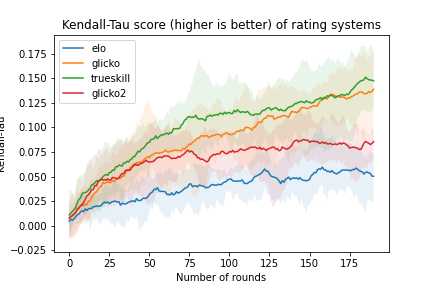
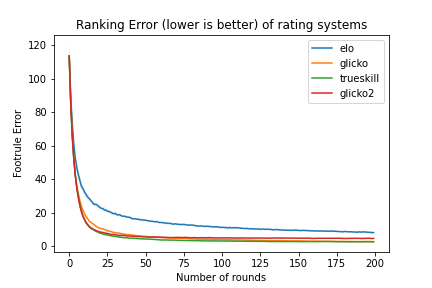
Changed kendall-tau to footrule

diff --git a/rate_rating_systems.py b/rate_rating_systems.py
@@ -20,6 +20,14 @@ def moving_average(a, n=3):
     return ret[n - 1:] / n
 
 
+def footrule(a,b):
+    a = np.array(a)
+    b = np.array(b)
+    error = 0
+    for idx, i in enumerate(a):
+        error += np.abs(idx - np.where(b==i)[0][0])
+    return error/len(a)
+
 ratingevaluationdataset = pd.read_csv(r"dataset\ChessRatings2\primary_training_part1_processed.csv")
 
 """
@@ -241,6 +249,7 @@ class ConvergenceEvaluation:
         self.loglosses = []
         self.kendalltaus = []
         self.correlations = []
+        self.footrules = []
 
         # create pool of players
         if not player_count % 2 == 0:
@@ -370,6 +379,7 @@ class ConvergenceEvaluation:
         self.loglosses.append(np.mean(round_loglosses))
         sorted_order_after = sorted(self.eval_player_pool, key=lambda x: self.eval_player_pool[x].rating)
         self.kendalltaus.append(kendalltau(self.kendalltaus_order, sorted_order_after))
+        self.footrules.append(footrule(self.kendalltaus_order, sorted_order_after))
 
         # correlation measure turns out to be very similar as using kendalltau alone
         self.correlations.append(np.corrcoef(self.kendalltaus_order, sorted_order_after)[0, 1])
@@ -427,7 +437,7 @@ def compare_results_convergence(list_of_obj, moving_window=100, legend=None, tit
         plt.legend(legend)
 
 
-def compare_results_convergence_multi(list_of_obj, moving_window=100, legend=None, title_details=''):
+def compare_results_convergence_multi(list_of_obj, legend=None, title_details=''):
     """
     Compare results from multiple runs each of multiple rating systems.
 
@@ -435,10 +445,9 @@ def compare_results_convergence_multi(list_of_obj, moving_window=100, legend=Non
     plt.figure()
     for obj in list_of_obj:
 
-        # calcluate the moving average for each of the cons
         res = []
         for run in obj:
-            res.append(np.round(moving_average(np.array([kt.correlation for kt in run.kendalltaus]), n=moving_window), decimals=7))
+            res.append(run.footrules)
 
         res = np.vstack(res)
         res_avg = np.mean(res, axis=0)
@@ -449,13 +458,37 @@ def compare_results_convergence_multi(list_of_obj, moving_window=100, legend=Non
         plt.fill_between(range(len(res_avg)), res_high, res_low, alpha=0.1)
 
     plt.title(title_details)
-    plt.ylabel('Kendall-Tau')
+    plt.ylabel('Footrule Error')
     plt.xlabel('Number of rounds')
     if legend:
         plt.legend(legend)
 
     if headless:
         plt.savefig('img/scenario1.png')
+
+    plt.figure()
+    for obj in list_of_obj:
+
+        res = []
+        for run in obj:
+            res.append(run.footrules)
+
+        res = np.vstack(res)
+        res_avg = np.mean(res, axis=0)
+        res_high = np.max(res, axis=0)
+        res_low = np.min(res, axis=0)
+
+        plt.plot(np.arange(1,res.shape[1])[int(-1*np.round(res.shape[1]/2)):], res_avg[int(-1*np.round(res.shape[1]/2)):])
+        plt.fill_between(range(len(res_avg))[int(-1*np.round(res.shape[1]/2)):], res_high[int(-1*np.round(res.shape[1]/2)):], res_low[int(-1*np.round(res.shape[1]/2)):], alpha=0.1)
+
+    plt.title(title_details)
+    plt.ylabel('Footrule Error')
+    plt.xlabel('Number of rounds')
+    if legend:
+        plt.legend(legend)
+
+    if headless:
+        plt.savefig('img/scenario1_2.png')
 
 
 ######################
@@ -590,8 +623,8 @@ def scenario1():
         tscons.append(tscon)
         glicko2cons.append(glicko2con)
 
-    compare_results_convergence_multi([elocons, glickocons, tscons, glicko2cons], legend=['elo', 'glicko', 'trueskill', 'glicko2'], moving_window=10,
-                                      title_details='Kendall-Tau score (higher is better) of rating systems')
+    compare_results_convergence_multi([elocons, glickocons, tscons, glicko2cons], legend=['elo', 'glicko', 'trueskill', 'glicko2'],
+                                      title_details='Ranking Error (lower is better) of rating systems')
 
 
 def scenario2():

diff --git a/scenario_evaluation.md b/scenario_evaluation.md
@@ -42,10 +42,86 @@ In this run, we half the stdev loss for each match by taking the mean of the ori
 
 We see significant improvement to Glicko2, but similar performance for Glicko.
 
+
 ## Empirical results of shuffling algorithm
 
 We run the shuffling algorithm for 100 players, with 50 swap passes, for 100000 trials. The resulting histogram for indices 1, 30, 50, 70, 100 are plotted, which shows a close-to-gaussian distribution for each of the 5 indices.
 
 ![swappingalgorithm](img/swappingalgorithm.png)
+
+
+## Unsuitability of Kendall-Tau metric for ranking
+
+Initially, we used [Kendall-Tau coefficient](https://en.wikipedia.org/wiki/Kendall_rank_correlation_coefficient) to evaluate how well-sorted the player ranking is after each round. However, it turned out to be unsuitable due to degenerate conditions. Instead we use [Spearman's footrule](https://people.revoledu.com/kardi/tutorial/Similarity/FootruleDistance.html), implemented in code as:
+
+```
+def ranking_error(a,b):
+    a = np.array(a)
+    b = np.array(b)
+    error = 0
+    for idx, i in enumerate(a):
+        error += np.abs(idx - np.where(b==i)[0][0])
+    return error/len(a)
+```
+
+In plain English, the error of an element is the difference between its index and the correct index it should be at. We sum up this error for every element, and normalize it by dividing by the number of elements. Lower error is better.
+
+We will demonstrate the degenerate cases where Kendall-Tau fails, but the Spearman's footrule does not.
+
+```
+# In this example, we expect to have a better correlation between s_correct and s1, as compared to s_correct and s2. s2 has been randomly shuffled.
+# kendall-tau should have a higher score for s_correct and s1, while footrule should have a lower score for them
+
+s_correct = [32, 37, 7, 2, 53, 21, 20, 14, 42, 3, 50]
+s1        = [32, 7, 37, 53, 2, 21, 20, 42, 14, 50, 3]
+s2        = [7, 37, 3, 20, 42, 32, 50, 2, 53, 21, 14]
+
+
+kendalltau(s_correct, s1)
+>>> KendalltauResult(correlation=-0.8181818181818182, pvalue=0.00013227513227513228)
+footrule(s_correct, s1)
+>>> 0.7272727272727273
+
+kendalltau(s_correct, s2)
+>>> KendalltauResult(correlation=0.3090909090909091, pvalue=0.21834651074234407)
+footrule(s_correct, s2)
+>>> 3.6363636363636362
+
+
+# This example is similar, but with a longer sequence. s2 has been randomly shuffled.
+
+s_correct = [32, 37, 7, 2, 53, 21, 20, 14, 42, 3, 50, 10, 27, 46, 41, 43, 18, 4, 52, 9, 51, 15, 1, 35, 38, 19, 0, 24, 30, 34, 36, 48, 55, 54, 8, 45, 16, 6, 39, 28, 26, 47, 11, 22, 33, 44, 13, 49, 17, 25, 12, 5, 23, 40, 29, 31]
+s1 = [32, 7, 37, 53, 2, 21, 20, 42, 14, 50, 3, 46, 27, 10, 41, 18, 43, 4, 52, 9, 51, 15, 35, 1, 38, 19, 24, 30, 0, 34, 48, 36, 55, 8, 16, 54, 6, 45, 39, 26, 28, 11, 22, 47, 33, 13, 44, 17, 25, 49, 12, 5, 23, 40, 29, 31]
+s2 = [26, 4, 14, 36, 6, 48, 41, 17, 49, 0, 7, 35, 46, 10, 44, 9, 13, 8, 53, 25, 37, 15, 45, 30, 31, 34, 20, 27, 52, 1, 47, 5, 16, 43, 33, 32, 19, 3, 38, 29, 54, 24, 40, 11, 22, 55, 28, 51, 2, 42, 21, 18, 12, 23, 39, 50]
+
+kendalltau(s_correct, s1)
+>>> KendalltauResult(correlation=0.0025974025974025974, pvalue=0.9774466961370482)
+footrule(s_correct, s1)
+>>> 0.75
+
+kendalltau(s_correct, s2)
+>>> KendalltauResult(correlation=0.1168831168831169, pvalue=0.20331759551837802)
+footrule(s_correct, s2)
+>>> 17.892857142857142
+
+```
+
+This result arises because Kendall-Tau does not penalize based on indices. Kendall-Tau only takes into account whether each pair comparison is in the right order or not. I.E. the error for (a,b) pairing, assuming b should be ranked later than a, is the same for [b,..,..,..,a] and [..,..,..,b,a].
+
+
+## Demonstration that Spearman's footrule converges correctly
+
+In this case, we set players' standard deviation to 0 to remove the chance of a draw. Number of players are set to 40 so convergence is faster. Running window is set to 40, which means that matchmaking is completely random.
+
+In this plot, the moving average of Kendall-Tau score is set to 1, and we only run 1 simulation for each rating system.
+
+![scenario1rankingerrorconvergence](img/scenario1rankingerror.png)
+
+
+
+
+
+
+
 
 

diff --git a/README.md b/README.md
@@ -39,9 +39,7 @@ As each player only plays 1 game per round, all ratings are essentially simultan
 
 ### Evaluation Metric
 
-The [Kendall-Tau coefficient](https://en.wikipedia.org/wiki/Kendall_rank_correlation_coefficient) is calculated after each round. This is a measure of how well-sorted a sequence is, where a score of 1 indicates that the players are fully sorted with regards to their ratings, while a score of 0 indicates that the players are randomized with regards to their ratings. As all players are initialized with the same default ratings and shuffled, the initial Kendall-Tau score is 0.
-
-The Kendall-Tau score can get quite noisy, so we apply a moving average of 10.
+The [Spearman's footrule](https://people.revoledu.com/kardi/tutorial/Similarity/FootruleDistance.html) is calculated after each round. This is a measure of how well-sorted a sequence is, where a score of 0 indicates that the players are fully sorted with regards to their ratings.
 
 As RNG is used within the simulation, we run 10 simulations for each rating system to obtain a better statistical picture. The mean is plotted as a solid line, while the max and min are plotted as the shaded areas.
 
@@ -49,8 +47,11 @@ As RNG is used within the simulation, we run 10 simulations for each rating syst
 
 ![scenario1result](img/scenario1.png)
 
-Trueskill performed the best, while Glicko managed to catch up later on.
+The second plot is a zoomed-in version of second half of the first plot.
 
+![scenario1_2result](img/scenario1_2.png)
+
+Trueskill performed the best, while Glicko managed to catch up later on.
 
 ## Scenario 2
 
